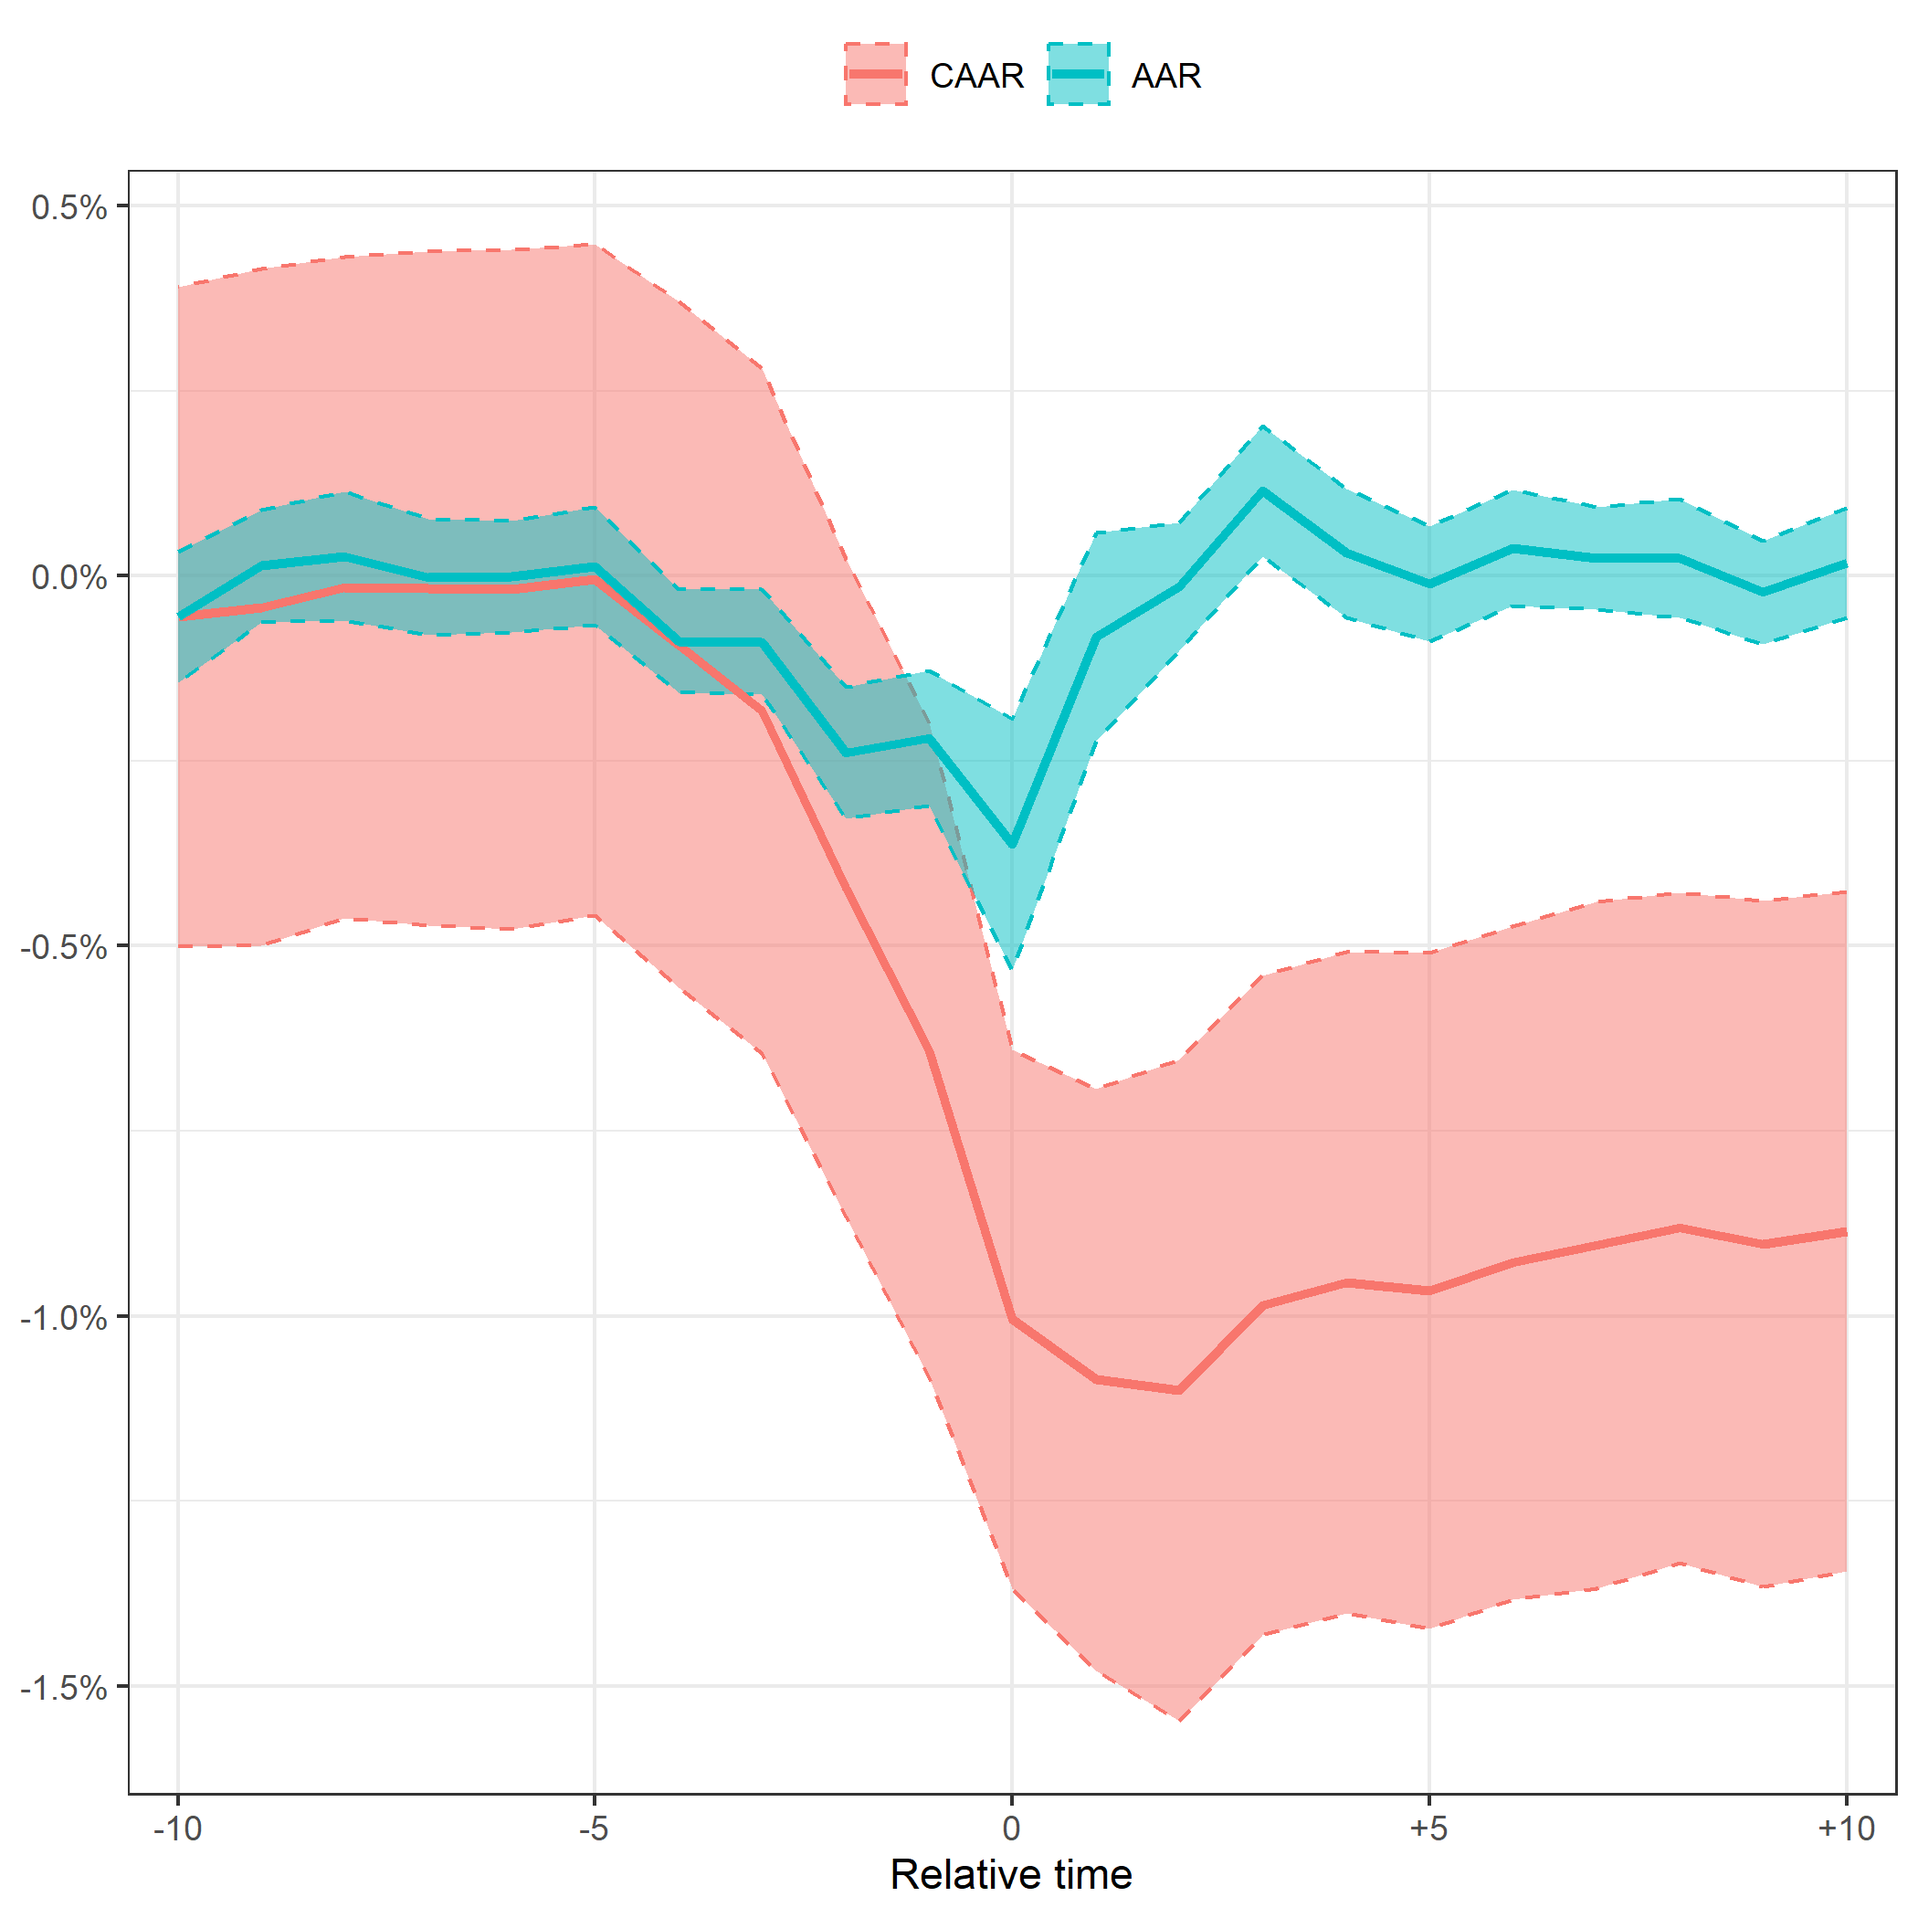
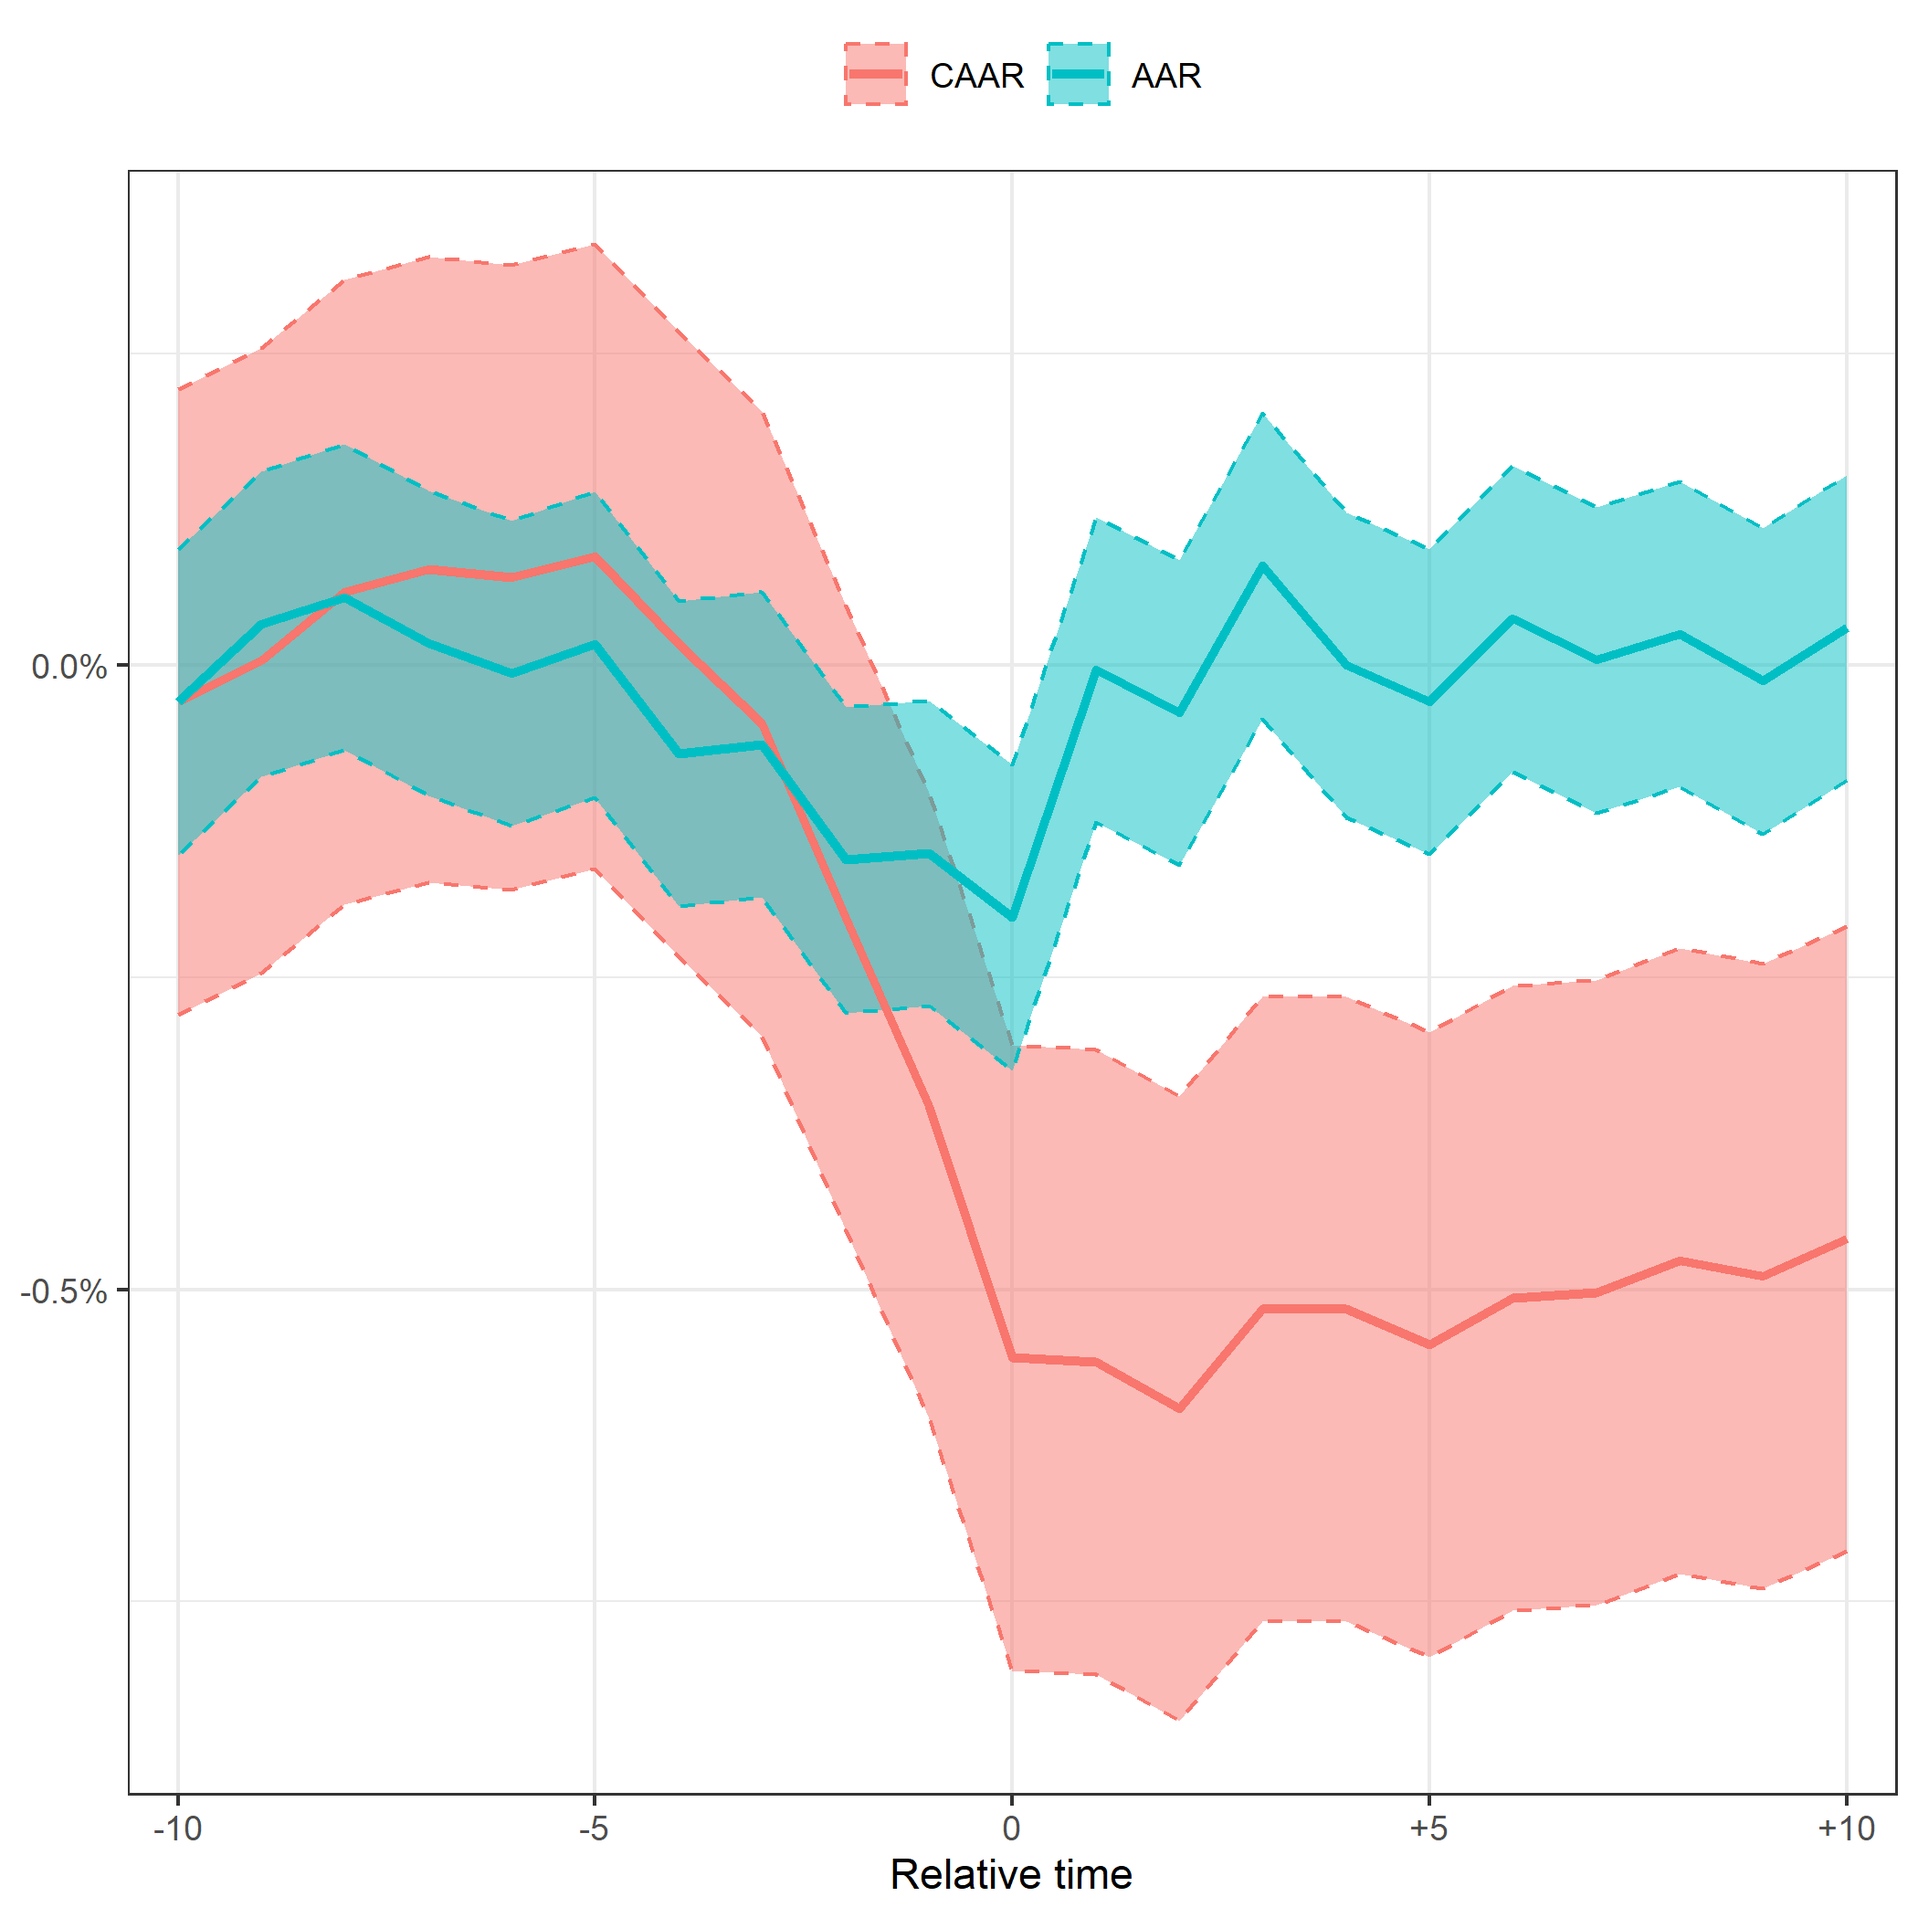
new measure of outliers

diff --git a/Projekt/1.Figures analysis/test.tex b/Projekt/1.Figures analysis/test.tex
@@ -1,32 +1,33 @@
 % latex table generated in R 4.2.2 by xtable 1.8-4 package
-% Mon Mar  6 15:34:34 2023
+% Thu Mar  9 16:12:21 2023
 \begin{table}[ht]
 \centering
 \begin{tabular}{lrrrr}
   \hline
-type & AAR & CAAR & AAR & CAAR \\ 
-  \hline
--10 & -0.0072 & -0.0072 & -0.0539 & -0.0539 \\ 
-  -9 & -0.0495 & -0.0566 & 0.0196 & -0.0343 \\ 
-  -8 & 0.0045 & -0.0522 & 0.0267 & -0.0077 \\ 
-  -7 & 0.0075 & -0.0447 & -0.0042 & -0.0118 \\ 
-  -6 & 0.0699 & 0.0252 & -0.0082 & -0.0200 \\ 
-  -5 & 0.0006 & 0.0258 & 0.0052 & -0.0148 \\ 
-  -4 & 0.1100 & 0.1358 & -0.0910 & -0.1059 \\ 
-  -3 & 0.0616 & 0.1974 & -0.0930 & -0.1989 \\ 
-  -2 & 0.0332 & 0.2306 & -0.2364 & -0.4353 \\ 
-  -1 & 0.0030 & 0.2336 & -0.2184 & -0.6536 \\ 
-  0 & -0.0264 & 0.2072 & -0.3604 & -1.0141 \\ 
-  +1 & -0.0061 & 0.2011 & -0.0833 & -1.0974 \\ 
-  +2 & -0.0606 & 0.1404 & -0.0232 & -1.1207 \\ 
-  +3 & -0.0480 & 0.0925 & 0.1148 & -1.0059 \\ 
-  +4 & -0.0576 & 0.0348 & 0.0313 & -0.9745 \\ 
-  +5 & -0.0285 & 0.0064 & -0.0087 & -0.9833 \\ 
-  +6 & -0.0446 & -0.0383 & 0.0385 & -0.9448 \\ 
-  +7 & -0.0723 & -0.1105 & 0.0200 & -0.9248 \\ 
-  +8 & -0.0065 & -0.1170 & 0.0261 & -0.8987 \\ 
-  +9 & -0.0493 & -0.1663 & -0.0191 & -0.9178 \\ 
-  +10 & -0.0372 & -0.2035 & 0.0185 & -0.8993 \\ 
+   & \multicolumn{2}{c}{Positive news} & \multicolumn{2}{c}{Negative news}  \\
+  Time & AAR & CAAR & AAR & CAAR \\
+ \hline
+-10 & -0.0150 & -0.0150 & -0.0292 & -0.0292 \\ 
+  -9 & -0.0462 & -0.0612 & 0.0333 & 0.0041 \\ 
+  -8 & 0.0081 & -0.0531 & 0.0548 & 0.0590 \\ 
+  -7 & 0.0097 & -0.0434 & 0.0179 & 0.0769 \\ 
+  -6 & 0.0504 & 0.0070 & -0.0061 & 0.0708 \\ 
+  -5 & 0.0001 & 0.0071 & 0.0169 & 0.0877 \\ 
+  -4 & 0.0852 & 0.0923 & -0.0707 & 0.0170 \\ 
+  -3 & 0.0330 & 0.1252 & -0.0635 & -0.0465 \\ 
+  -2 & 0.0036 & 0.1289 & -0.1559 & -0.2024 \\ 
+  -1 & -0.0081 & 0.1207 & -0.1506 & -0.3529 \\ 
+  0 & -0.0011 & 0.1196 & -0.2019 & -0.5548 \\ 
+  +1 & -0.0097 & 0.1100 & -0.0033 & -0.5581 \\ 
+  +2 & -0.0450 & 0.0650 & -0.0375 & -0.5956 \\ 
+  +3 & -0.0493 & 0.0157 & 0.0799 & -0.5157 \\ 
+  +4 & -0.0627 & -0.0470 & 0.0002 & -0.5155 \\ 
+  +5 & -0.0360 & -0.0830 & -0.0289 & -0.5443 \\ 
+  +6 & -0.0403 & -0.1233 & 0.0374 & -0.5069 \\ 
+  +7 & -0.0585 & -0.1819 & 0.0045 & -0.5024 \\ 
+  +8 & -0.0149 & -0.1968 & 0.0252 & -0.4772 \\ 
+  +9 & -0.0393 & -0.2361 & -0.0124 & -0.4896 \\ 
+  +10 & -0.0452 & -0.2812 & 0.0305 & -0.4591 \\ 
    \hline
 \end{tabular}
 \caption{AAR and CAAR over event window (in percentage)} 
